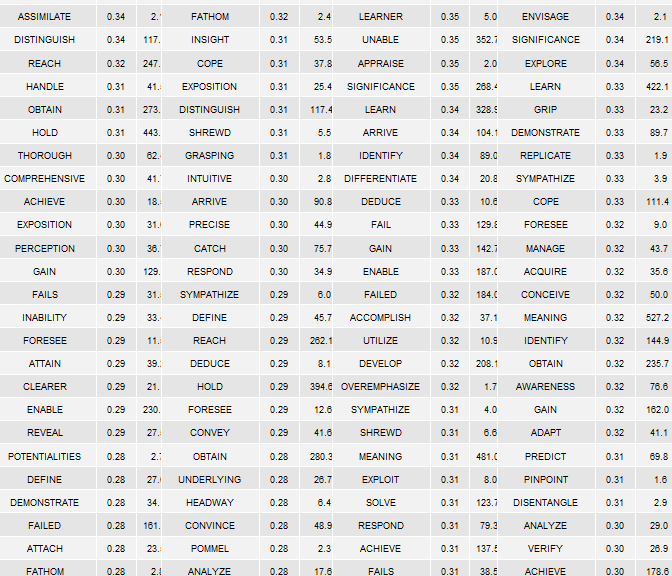
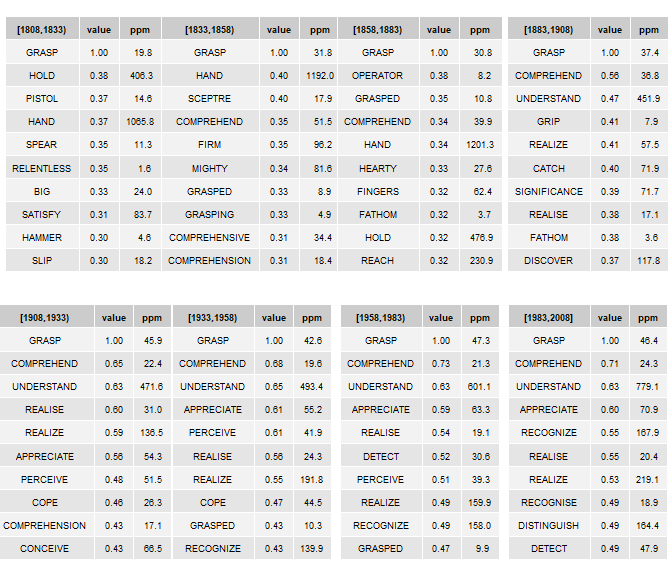
draft

diff --git a/README.md b/README.md
@@ -11,11 +11,11 @@ An R-based guide to accessing/sampling Google n-gram data & building historical 
 -   [6 Exploring synonymny historically](#6-Exploring-synonymny-historically)
 -   [7 Summary](#7-Summary)
 
-This guide focuses on working with Google n-gram data locally. So, lots of sampling & intermediary file structures. A smarter aproach to working with n-gram data in its entriety would be to build a SQL database. Here, we just want to steal some n-gram data to demonstrate a few methods & take a peak into some changes in word distributions historically.
+This guide focuses on working with Google n-gram data locally. So, lots of sampling & intermediary file structures. A smaller data (ie, poor man's) approach to handling big data. A smarter aproach to working with n-gram data in its entriety would be to build a SQL database. Here, we just want to steal some n-gram data to demonstrate a few methods & take a peak into some changes in word distributions historically.
 
 Google n-gram data are a bit weird as a text structure. As such, many existing text-analytic R packages/functions (that often assume raw text as a starting point) are not especially helpful here. So, we have to hack-about some to get from Google n-gram data to historical term-feature matrices.
 
-**ENDGAME:** Finding historical synonyms (-ish). The tables below summarize nearest neighbors for the word *GRASP* over the last 200 years (by quarter century), including cosine-based similarities (value) & term frequencies in parts per million (ppm).
+**ENDGAME:** Finding historical synonyms. The tables below summarize nearest neighbors for the word *GRASP* over the last 200 years (by quarter century), including cosine-based similarities (value) & term frequencies in parts per million (ppm).
 
 <br>
 
@@ -157,6 +157,24 @@ for (i in 1:length(file_names)) {
 
 ------------------------------------------------------------------------
 
+``` r
+weights <- read.csv(url('http://storage.googleapis.com/books/ngrams/books/googlebooks-eng-1M-totalcounts-20090715.txt'), sep = '\t', header = FALSE, skip = 1) %>%
+  select(V1,V2) %>%
+  rename(yop = V1, tokens = V2) %>%
+  filter(yop >=1808 & yop <= 2008)
+
+weights$quarter <- cut(weights$yop, seq(1808, 2008, 25), 
+              right=FALSE,
+              include.lowest = TRUE,
+              dig.lab = 4) 
+
+weights <- weights %>% 
+  group_by(quarter) %>%
+  summarise(tokens = sum(as.numeric(tokens))) %>%
+  ungroup() %>%
+  mutate(prop = tokens / sum(tokens))
+```
+
 ### 2 Restructuring corpus
 
 At this point, we have successfully stolen a very small portion of the 5-gram corpus derived from the 100+ billion word Google corpus. At ~6.7 Gb, it is still a bit big for use locally in R. With the goal of building n-gram-based co-occurence matrices, the next step is to restructure the 5-gram data some.
@@ -177,18 +195,28 @@ gfiles <- list.files(path=local_raw,
                      recursive=TRUE) 
 
 grams <- lapply(1:length(gfiles), function (y)
-  data.table::fread(gfiles[y])%>% 
-    #filter(!quarter %in% c("[1808,1833)", "[1833,1858)")) %>%
-    sample_n(75000) %>%
-    rename(ngram = five_gram) %>%
-    mutate(id = as.integer(row_number())) %>%
-    separate_rows (ngram, sep = ' ') %>% #Make ngram long
-    filter(!ngram %in% toupper(corpuslingr::clr_ref_stops))%>% #Remove stop words
-    as.data.table()
+  #Sample per jennybc
+  data.table::fread(gfiles[y])%>%
+  arrange(quarter) %>%
+  group_by(quarter) %>% 
+  nest() %>%            
+  mutate(n = round(75000* weights$prop,0)) %>% 
+  mutate(samp = map2(data, n, sample_n)) %>% 
+  select(quarter, samp) %>%
+  unnest()%>%
+  
+  #Restructure
+  rename(ngram = five_gram) %>%
+  mutate(id = as.integer(row_number())) %>%
+  separate_rows (ngram, sep = ' ') %>% #Make ngram long
+  filter(!ngram %in% toupper(corpuslingr::clr_ref_stops))%>% #Remove stop words
+  as.data.table()
 )
 
-names(grams) <- file_names  #Store locally.
+names(grams) <- file_names
 ```
+
+[here](https://jennybc.github.io/purrr-tutorial/ls12_different-sized-samples.html)
 
 The **resulting data structure** is a list of data frames, with each data frame representing a sub-corpus as a bag-of-words (with frequencies aggregated by n-gram constituents and quarter-century). A sample portion of this structure is presented below.
 
@@ -201,7 +229,7 @@ The **resulting data structure** is a list of data frames, with each data frame 
 | OPPOSED     | \[1883,1908)  |     2|    2|
 | NEW         | \[1983,2008\] |     1|    3|
 
-The next step is to convert our list of randomly assembled sub-corpora into a list of generation-based sub-corpora. So, we first collapse our list of sub-corpora into a single corpus, and uniquely identify each 5-gram.
+The next step is to convert our list of randomly assembled sub-corpora into a list of **generation-based** sub-corpora. So, we first collapse our list of sub-corpora into a single corpus, and uniquely identify each 5-gram.
 
 ``` r
 grams <- grams %>% data.table::rbindlist(idcol = 'corp') 
@@ -212,23 +240,24 @@ grams[, corp := NULL]  #nrow = 120,920,432
 
 ``` r
 summary <- grams[, list(tokens = sum(freq), 
-                        types = length(unique(ngram))), 
+                        types = length(unique(ngram)),
+                        ngrams = length(unique(id))), 
                  by=quarter] %>% 
   arrange(quarter)
 ```
 
 **Some corpus descriptives**. These are rough estimates. Keep in mind that the token count is a bit wierd as it is based on n-grams and, hence, a single instantiation of a form in text will be counted multiple times (as it will occur in multiple n-grams). Presumably relative frequencies wash the effects of multiple counting out (assuming all forms are equally affected).
 
-| quarter       |     tokens|   type|
-|:--------------|----------:|------:|
-| \[1808,1833)  |   66183994|  59767|
-| \[1833,1858)  |  147983804|  72567|
-| \[1858,1883)  |  184728372|  80140|
-| \[1883,1908)  |  238699208|  85044|
-| \[1908,1933)  |  190794906|  81840|
-| \[1933,1958)  |  184923418|  79384|
-| \[1958,1983)  |  159967871|  78302|
-| \[1983,2008\] |  145837999|  75723|
+| quarter       |     tokens|  types|   ngrams|  prop\_tokens|  prop\_ngrams|
+|:--------------|----------:|------:|--------:|-------------:|-------------:|
+| \[1808,1833)  |   37383071|  50609|  2407235|         0.028|         0.041|
+| \[1833,1858)  |  118606799|  67794|  5314405|         0.089|         0.090|
+| \[1858,1883)  |  162203730|  77019|  6911847|         0.122|         0.117|
+| \[1883,1908)  |  254298403|  86591|  9308212|         0.192|         0.157|
+| \[1908,1933)  |  183793294|  80850|  8129058|         0.139|         0.137|
+| \[1933,1958)  |  199018814|  81235|  8733809|         0.150|         0.147|
+| \[1958,1983)  |  176878087|  80539|  8677454|         0.133|         0.146|
+| \[1983,2008\] |  194605143|  82249|  9762528|         0.147|         0.165|
 
 Lastly, we **re-split the corpus into eight sub-corpora**, one for each quarter-century.
 
@@ -257,7 +286,7 @@ tfms <- lapply(1:8, function (y)
     .[, order(colnames(.))] %>%
     .[order(rownames(.)), ]
   
-) #641.9 Mb
+) #632.2 Mb
 
 names(tfms) <- names(grams)
 ```
@@ -271,16 +300,16 @@ tfms[[5]][1:10,1:15]
 
     ## 10 x 15 sparse Matrix of class "dgCMatrix"
     ##                                             
-    ## AA        153 . .  . .   . . . . . . . . . .
-    ## AALAND      . 4 .  . .   . . . . . . . . . .
-    ## AAN         . . 5  . .   . . . . . . . . . .
-    ## AAR         . . . 31 .   . . . . . . . . . .
-    ## AARNE       . . .  . 1   . . . . . . . . . .
-    ## AARON       . . .  . . 822 . . . . . . . . .
-    ## AARONIC     . . .  . .   . 1 . . . . . . . .
-    ## AARONSOHN   . . .  . .   . . 1 . . . . . . .
-    ## AASOR       . . .  . .   . . . 1 . . . . . .
-    ## AAZAZ       . . .  . .   . . . . 1 . . . . .
+    ## AA    100 . . .  .   . .    . .  . . . . . .
+    ## AAA     . 1 . .  .   . .    . .  . . . . . .
+    ## AAAS    . . 1 .  .   . .    . .  . . . . . .
+    ## AAE     . . . 2  .   . .    . .  . . . . . .
+    ## AAR     . . . . 43   . .    . .  . . . . . .
+    ## AARON   . . . .  . 737 .    . .  . . . . . .
+    ## AASI    . . . .  .   . 1    . .  . . . . . .
+    ## AB      . . . .  .   . . 2406 .  . . . . . .
+    ## ABABA   . . . .  .   . .    . 3  . . . . . .
+    ## ABACI   . . . .  .   . .    . . 46 . . . . .
 
 **Full data structure** is a list of TFMs by quarter-century, with the following dimensions:
 
@@ -290,14 +319,14 @@ lapply(tfms, dim)
 
 | quarter       |  terms|  features|
 |:--------------|------:|---------:|
-| \[1808,1833)  |  59767|     59767|
-| \[1833,1858)  |  72567|     72567|
-| \[1858,1883)  |  80140|     80140|
-| \[1883,1908)  |  85044|     85044|
-| \[1908,1933)  |  81840|     81840|
-| \[1933,1958)  |  79384|     79384|
-| \[1958,1983)  |  78302|     78302|
-| \[1983,2008\] |  75723|     75723|
+| \[1808,1833)  |  50609|     50609|
+| \[1833,1858)  |  67794|     67794|
+| \[1858,1883)  |  77019|     77019|
+| \[1883,1908)  |  86591|     86591|
+| \[1908,1933)  |  80850|     80850|
+| \[1933,1958)  |  81235|     81235|
+| \[1958,1983)  |  80539|     80539|
+| \[1983,2008\] |  82249|     82249|
 
 ------------------------------------------------------------------------
 
@@ -326,7 +355,7 @@ freqs_by_gen <- lapply(1:8, function (x)
   select(-corpus)
 ```
 
-Historical frequencies for a small set of forms in the sampled n-gram corpus are presented below. Note that these frequencies are very rough, and will differ some from numbers obtained directly from Google's n-gram viewer (per sampling & aggregated time bins).
+**Historical frequencies** for a small set of forms in the sampled n-gram corpus are presented below. Note that these frequencies are very rough, and will differ some from numbers obtained directly from Google's n-gram viewer (per sampling procedure & aggregated time bins).
 
 ``` r
 freqs_by_gen %>%
@@ -336,15 +365,15 @@ freqs_by_gen %>%
   knitr::kable()
 ```
 
-| form         |  \[1808,1833)|  \[1833,1858)|  \[1858,1883)|  \[1883,1908)|  \[1908,1933)|  \[1933,1958)|  \[1958,1983)|  \[1983,2008\]|
-|:-------------|-------------:|-------------:|-------------:|-------------:|-------------:|-------------:|-------------:|--------------:|
-| PRETOR       |            NA|            NA|            NA|          0.06|            NA|            NA|            NA|             NA|
-| SIERPE       |          0.12|          0.12|            NA|            NA|            NA|            NA|            NA|             NA|
-| ENCYCLOPEDIC |            NA|          0.09|          0.04|          0.08|          0.03|          0.16|          0.31|           0.17|
-| EUMENES      |          0.18|          0.12|          0.15|          0.03|          0.02|          0.01|            NA|             NA|
-| BUFFALO      |          1.24|         10.87|          9.93|          7.80|          9.65|          5.86|          7.71|           5.19|
+| form          |  \[1808,1833)|  \[1833,1858)|  \[1858,1883)|  \[1883,1908)|  \[1908,1933)|  \[1933,1958)|  \[1958,1983)|  \[1983,2008\]|
+|:--------------|-------------:|-------------:|-------------:|-------------:|-------------:|-------------:|-------------:|--------------:|
+| PRESTONPANS   |          0.24|          0.13|          0.07|          0.02|          0.10|          0.05|          0.02|           0.06|
+| SIDEBANDS     |            NA|            NA|            NA|            NA|            NA|            NA|          0.25|             NA|
+| ENCLOSES      |          0.11|          0.20|          0.30|          0.20|          0.34|          0.17|          0.28|           0.15|
+| ETYMOLOGISCHE |            NA|            NA|            NA|            NA|            NA|          0.02|            NA|             NA|
+| BUDDINGS      |            NA|            NA|          0.01|            NA|            NA|            NA|            NA|           0.01|
 
-**Filtering features**. Based on the frequency table above, we create a list of forms that occur in every quarter-century; then we filter these forms to the 50th to 5,049th most frequent based on median frequencies historically.
+<br> **Filtering features**. Based on the frequency table above, we create a list of forms that occur in every quarter-century; then we filter these forms to the 50th to 5,049th most frequent based on median frequencies historically.
 
 ``` r
 filtered_features <- freqs_by_gen %>%
@@ -378,7 +407,7 @@ tfms_filtered <- lapply(1:8, function (x)
 names(tfms_filtered) <- names(tfms)
 ```
 
-Dimensions of our new matrices are presented below. The decrease of terms (ppm &gt; 1.5) historically is ~likely a product of the diversification of published texts (included in the Google n-gram data sets) over time and, hence, a more diverse lexicon with individual lexical items occurring less frequently (at least in an unweighted historical sample).
+**Dimension details** for our new matrices are presented below.
 
 ``` r
 lapply(tfms_filtered, dim)
@@ -386,20 +415,18 @@ lapply(tfms_filtered, dim)
 
 | quarter       |  terms|  features|
 |:--------------|------:|---------:|
-| \[1808,1833)  |  18309|      5000|
-| \[1833,1858)  |  18528|      5000|
-| \[1858,1883)  |  18895|      5000|
-| \[1883,1908)  |  18764|      5000|
-| \[1908,1933)  |  17262|      5000|
-| \[1933,1958)  |  16846|      5000|
-| \[1958,1983)  |  16480|      5000|
-| \[1983,2008\] |  16402|      5000|
+| \[1808,1833)  |  18186|      5000|
+| \[1833,1858)  |  18495|      5000|
+| \[1858,1883)  |  18878|      5000|
+| \[1883,1908)  |  18748|      5000|
+| \[1908,1933)  |  17215|      5000|
+| \[1933,1958)  |  16838|      5000|
+| \[1958,1983)  |  16492|      5000|
+| \[1983,2008\] |  16354|      5000|
 
 ------------------------------------------------------------------------
 
 ### 5 PPMI and SVD
-
-Whether or not some or all of the compression steps presented above, ...
 
 *Positive Pointwise Mutual Information* (PPMI)
 
@@ -482,7 +509,7 @@ for (i in 1:length(tfms_mats)) {
 gridExtra::grid.arrange(grobs = g, nrow = 2)
 ```
 
-![](README_files/figure-markdown_github/unnamed-chunk-49-1.png)
+![](README_files/figure-markdown_github/unnamed-chunk-50-1.png)
 
 ------------------------------------------------------------------------
 
